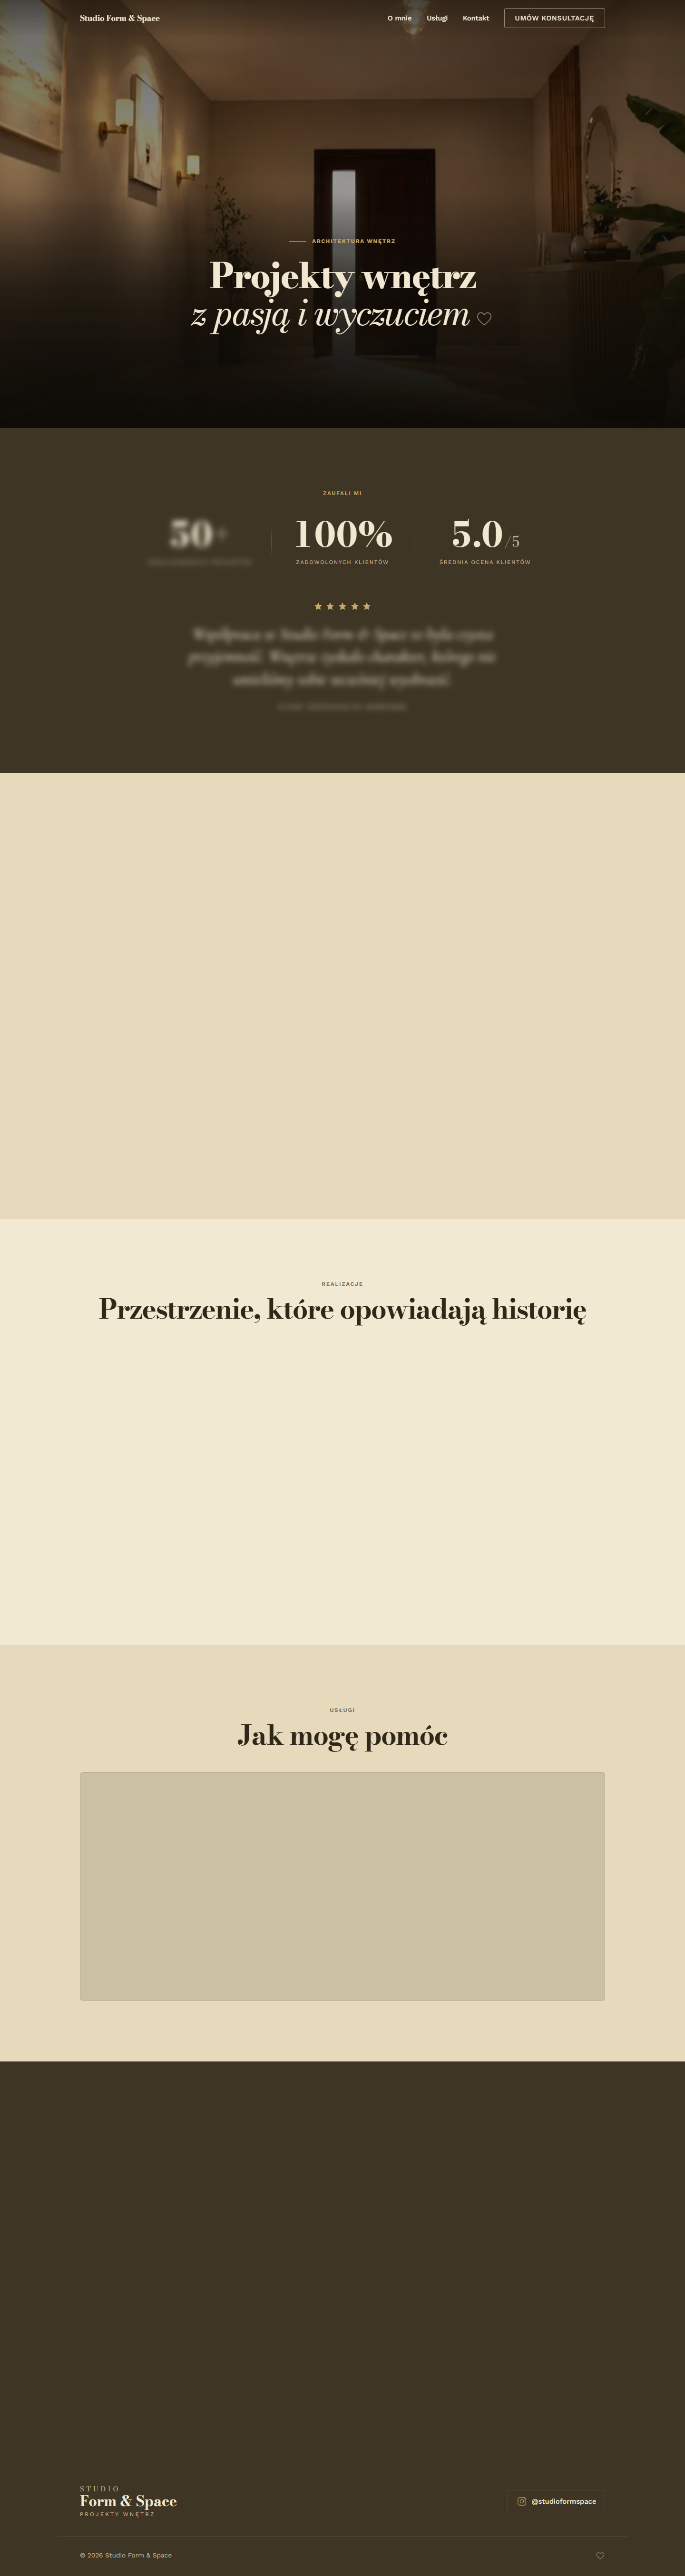
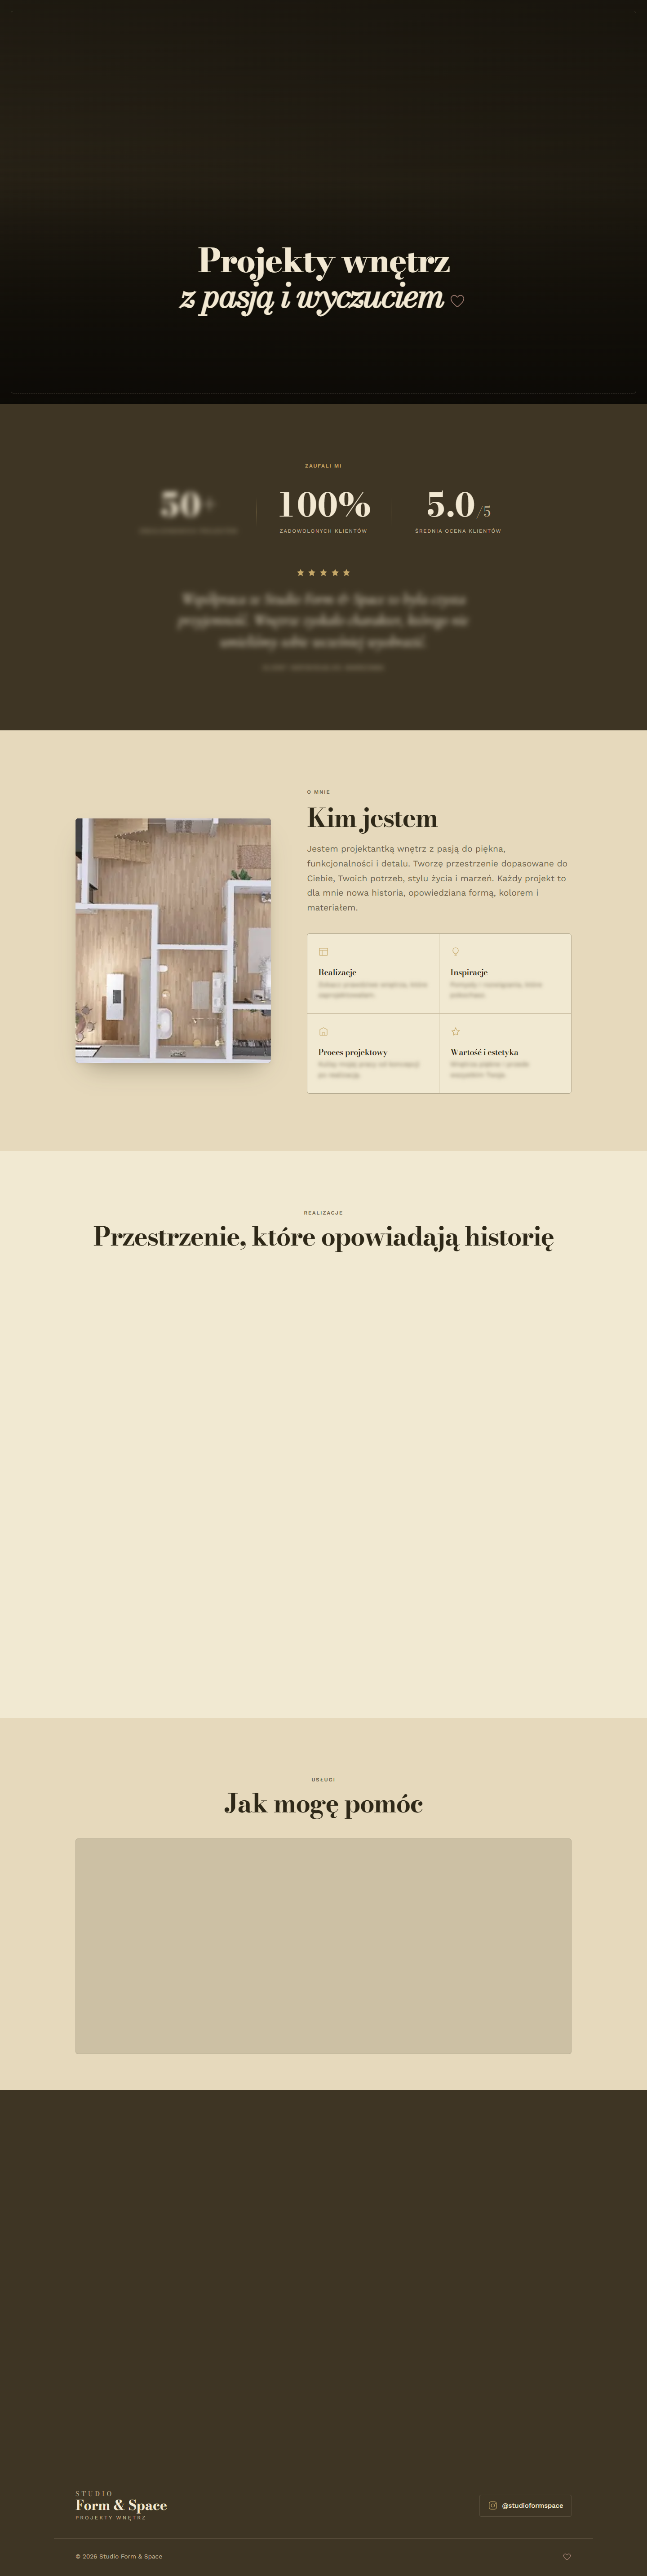
m

diff --git a/style.css b/style.css
@@ -51,7 +51,9 @@ h1,h2,h3{line-height:1.05;letter-spacing:-.03em}
 .link-underline:focus-visible{outline:2px solid var(--gold);outline-offset:4px;border-radius:2px}
 
 /* header */
-#site-header{position:fixed;top:0;left:0;right:0;z-index:100;color:var(--cream);transition:background-color .5s var(--ease-out),box-shadow .5s var(--ease-out),color .4s ease}
+#site-header{position:fixed;top:0;left:0;right:0;z-index:100;color:var(--cream);transition:background-color .5s var(--ease-out),box-shadow .5s var(--ease-out),color .4s ease,opacity .5s var(--ease-out),transform .5s var(--ease-out)}
+.js #site-header{opacity:0;transform:translateY(-100%);pointer-events:none}
+.js #site-header.scrolled{opacity:1;transform:none;pointer-events:auto}
 #site-header::before{content:"";position:absolute;inset:0;background:linear-gradient(to bottom,rgba(20,16,8,.4),transparent);opacity:1;transition:opacity .4s ease;pointer-events:none;z-index:-1}
 #site-header.scrolled{color:var(--ink);background:rgba(241,233,210,.88);backdrop-filter:blur(14px);box-shadow:0 1px 0 var(--line-soft)}
 #site-header.scrolled::before{opacity:0}
@@ -84,6 +86,8 @@ h1,h2,h3{line-height:1.05;letter-spacing:-.03em}
 .hero-bg{position:absolute;inset:0;background:var(--dark);z-index:-3}
 .hero-img{position:absolute;inset:0;width:100%;height:100%;object-fit:cover;z-index:-2;transform:scale(1.08);filter:brightness(1.15);animation:kenburns 20s var(--ease-in-out) infinite alternate;will-change:transform}
 @keyframes kenburns{from{transform:scale(1.08) translate(0,0)}to{transform:scale(1.16) translate(-1.5%,-2%)}}
+.hero-placeholder .hero-bg{background:linear-gradient(135deg,var(--dark),#241f14)}
+.hero-placeholder::after{content:"";position:absolute;inset:1.5rem;border:1px dashed rgba(242,232,210,.25);border-radius:var(--r-lg);z-index:-1;pointer-events:none}
 .hero-scrim{position:absolute;inset:0;z-index:-1;background:
  linear-gradient(180deg,rgba(0,0,0,.35) 0%,rgba(0,0,0,.15) 45%,rgba(0,0,0,.5) 100%),
  linear-gradient(to top,rgba(24,20,12,.94) 0%,rgba(24,20,12,.7) 30%,rgba(24,20,12,.32) 55%,rgba(24,20,12,.42) 100%),
@@ -95,7 +99,7 @@ h1,h2,h3{line-height:1.05;letter-spacing:-.03em}
 .hero-content .eyebrow::before{content:"";width:36px;height:1px;background:var(--gold)}
 .hero-sub{font-family:var(--script);font-style:italic;font-size:clamp(1.3rem,2.6vw,1.9rem);color:var(--cream-soft);margin-bottom:1rem;opacity:0;animation:heroFade .9s var(--ease-out) .35s forwards}
 .hero-title{color:var(--cream);font-size:clamp(2.2rem,6vw,4.6rem);max-width:16ch;text-shadow:0 2px 40px rgba(20,16,8,.4);opacity:0;animation:heroFade 1s var(--ease-out) .5s forwards}
-.hero-title em{font-style:italic;font-weight:400;color:var(--cream)}
+.hero-title em{font-style:italic;font-weight:800;color:var(--cream)}
 .hero-title .heart{color:var(--sig);display:inline-block;vertical-align:baseline;margin-left:.15em;width:clamp(24px,3.2vw,38px);height:auto;opacity:.75;translate:0 .06em}
 .hero-actions{display:flex;align-items:center;justify-content:center;gap:2rem;flex-wrap:wrap;margin-top:2.75rem;opacity:0;animation:heroFade 1s var(--ease-out) .7s forwards}
 @keyframes heroFade{from{opacity:0;transform:translateY(24px)}to{opacity:1;transform:none}}

diff --git a/index.html b/index.html
@@ -41,12 +41,10 @@
 </header>
 
 <main id="main">
-<section class="hero" id="top">
+<section class="hero hero-placeholder" id="top">
 <div class="hero-bg" aria-hidden="true"></div>
-<img class="hero-img" src="Images/hall.webp" alt="Elegancki, ciepło oświetlony hol zaprojektowany przez Studio Form &amp; Space" width="1440" height="900">
 <div class="hero-scrim" aria-hidden="true"></div>
 <div class="wrap hero-content">
-<p class="eyebrow">Architektura wnętrz</p>
 <h1 class="display hero-title">Projekty wnętrz<br><em>z pasją i wyczuciem</em><svg class="heart" viewBox="0 0 24 24" width="38" height="38" aria-hidden="true"><path d="M12 20.5C11.6 20.5 11.2 20.35 10.9 20.06C6.5 16.13 3 12.99 3 9.2C3 6.6 5 4.6 7.5 4.6C9 4.6 10.4 5.35 11.25 6.55C11.5 6.9 11.75 7.1 12 7.1C12.25 7.1 12.5 6.9 12.75 6.55C13.6 5.35 15 4.6 16.5 4.6C19 4.6 21 6.6 21 9.2C21 12.99 17.5 16.13 13.1 20.06C12.8 20.35 12.4 20.5 12 20.5Z" fill="none" stroke="currentColor" stroke-width="1.1"/></svg>
 </h1>
 <div class="hero-actions">